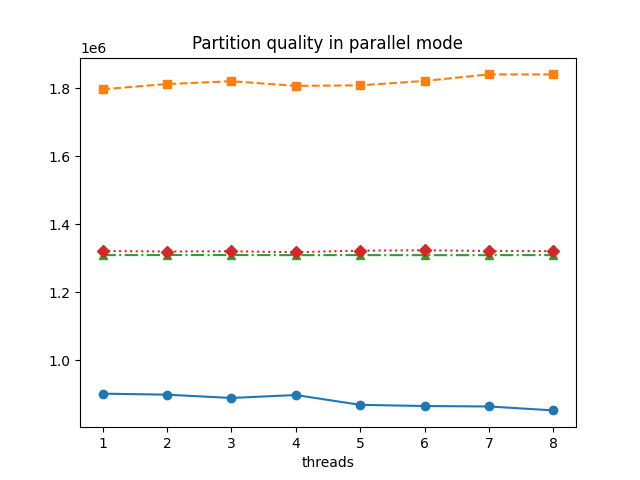
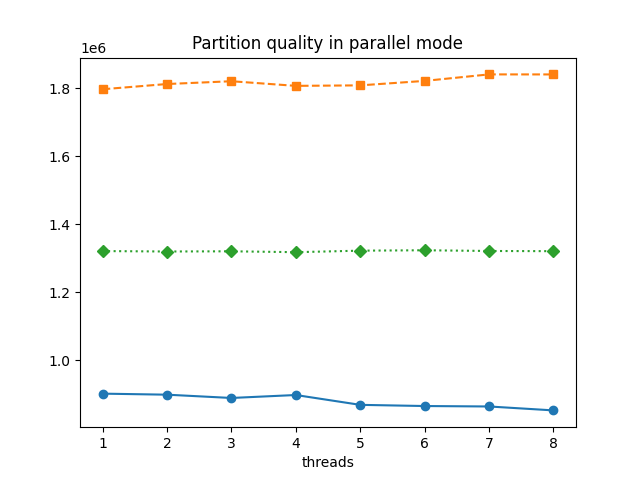
avg removed

Changed region(s): [[0.1562, 0.5, 0.875, 0.5625]]

diff --git a/testing-results/graph-a/part_quality_par.py b/testing-results/graph-a/part_quality_par.py
@@ -26,19 +26,6 @@ y2 = [
 1840910.75
 ]
 
-# Dati di esempio per la terza linea
-x3 = [1, 2, 3, 4, 5, 6, 7, 8]
-y3 = [
-1309577.23,
-1309763.36,
-1309749.85,
-1309459.63,
-1309635.15,
-1309394.35,
-1309432.93,
-1309680.65
-]
-
 # Dati di esempio per la quart linea
 x4 = [1, 2, 3, 4, 5, 6, 7, 8]
 y4 = [
@@ -55,7 +42,6 @@ y4 = [
 # Creazione del grafico con due linee
 plt.plot(x1, y1, label='Min-partition', marker='o', linestyle='-')
 plt.plot(x2, y2, label='Max-partition', marker='s', linestyle='--')
-plt.plot(x3, y3, label='Avg-partition', marker='^', linestyle='-.')
 plt.plot(x4, y4, label='Median-partition', marker='D', linestyle=':')
 
 # Aggiunta di etichette agli assi, titolo al grafico e legenda

diff --git a/testing-results/graph-c/part_quality_par.py b/testing-results/graph-c/part_quality_par.py
@@ -26,18 +26,6 @@ y2 = [
 47450939.36
 ]
 
-# Dati di esempio per la terza linea
-x3 = [1, 2, 3, 4, 5, 6, 7, 8]
-y3 = [
-31030379.47,
-31025338.53,
-31036353.64,
-31024331.3,
-31024233.3,
-31025440.34,
-31035979.95,
-31027409.61
-]
 
 # Dati di esempio per la quart linea
 x4 = [1, 2, 3, 4, 5, 6, 7, 8]
@@ -55,7 +43,6 @@ y4 = [
 # Creazione del grafico con due linee
 plt.plot(x1, y1, label='Min-partition', marker='o', linestyle='-')
 plt.plot(x2, y2, label='Max-partition', marker='s', linestyle='--')
-plt.plot(x3, y3, label='Avg-partition', marker='^', linestyle='-.')
 plt.plot(x4, y4, label='Median-partition', marker='D', linestyle=':')
 
 # Aggiunta di etichette agli assi, titolo al grafico e legenda

diff --git a/testing-results/graph-b/part_quality_par.py b/testing-results/graph-b/part_quality_par.py
@@ -28,20 +28,6 @@ y2 = [
 
 ]
 
-# Dati di esempio per la terza linea
-x3 = [1, 2, 3, 4, 5, 6, 7, 8]
-y3 = [
-5297402.8,
-5294613.26,
-5298806.37,
-5296580.27,
-5299818.12,
-5300534.07,
-5299354.48,
-5301692.22
-
-]
-
 # Dati di esempio per la quart linea
 x4 = [1, 2, 3, 4, 5, 6, 7, 8]
 y4 = [
@@ -59,7 +45,6 @@ y4 = [
 # Creazione del grafico con due linee
 plt.plot(x1, y1, label='Min-partition', marker='o', linestyle='-')
 plt.plot(x2, y2, label='Max-partition', marker='s', linestyle='--')
-plt.plot(x3, y3, label='Avg-partition', marker='^', linestyle='-.')
 plt.plot(x4, y4, label='Median-partition', marker='D', linestyle=':')
 
 # Aggiunta di etichette agli assi, titolo al grafico e legenda

diff --git a/testing-results/graph-c/part_quality_seq.py b/testing-results/graph-c/part_quality_seq.py
@@ -1,11 +1,10 @@
 import matplotlib.pyplot as plt
 
 # Dati di esempio
-categorie = ['Min-partition', 'Max-partition', 'Avg-partition', 'Median-partition']
+categorie = ['Min-partition', 'Max-partition', 'Median-partition']
 valori = [
 1872556.05,
 106740682.6,
-31013970,
 31385968.44
 ]
 

diff --git a/testing-results/graph-a/part_quality_seq.py b/testing-results/graph-a/part_quality_seq.py
@@ -1,11 +1,10 @@
 import matplotlib.pyplot as plt
 
 # Dati di esempio
-categorie = ['Min-partition', 'Max-partition', 'Avg-partition', 'Median-partition']
+categorie = ['Min-partition', 'Max-partition', 'Median-partition']
 valori = [
 163856.88,
 3947381.96,
-1310896.52,
 1323154.32
 ]
 

diff --git a/testing-results/graph-b/part_quality_seq.py b/testing-results/graph-b/part_quality_seq.py
@@ -1,11 +1,10 @@
 import matplotlib.pyplot as plt
 
 # Dati di esempio
-categorie = ['Min-partition', 'Max-partition', 'Avg-partition', 'Median-partition']
+categorie = ['Min-partition', 'Max-partition',  'Median-partition']
 valori = [
 461444,
 14871666,
-5303652,
 5443421.08
 ]
 
